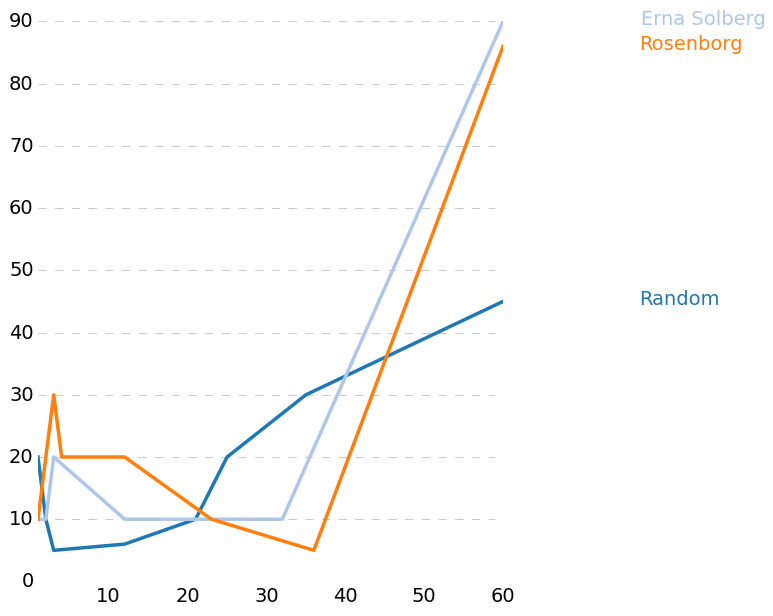
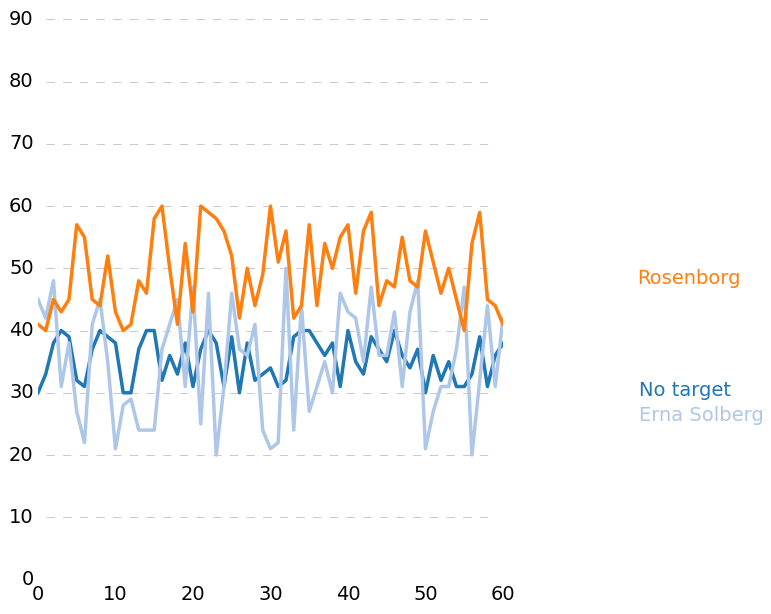
added more

diff --git a/plotting.py b/plotting.py
@@ -3,6 +3,7 @@ Handles plotting of different visualizations of data.
 @author: JohnArne
 '''
 import matplotlib.pyplot as plt
+import random
 
 def plot_temporal_sentiment(data):
     """
@@ -39,7 +40,7 @@ def plot_temporal_sentiment(data):
     # Limit the range of the plot to only where the data is.  
     # Avoid unnecessary whitespace.  
     plt.ylim(0, 90)  
-    plt.xlim(1, 60)  
+    plt.xlim(0, 60)  
       
     # Make sure your axis ticks are large enough to be easily read.  
     # You don't want your viewers squinting to read your plot.  
@@ -58,7 +59,7 @@ def plot_temporal_sentiment(data):
       
     # Now that the plot is prepared, it's time to actually plot the data!  
     # Note that I plotted the majors in order of the highest % in the final year.  
-    majors = ['Random', 'Erna Solberg', 'Rosenborg']  
+    majors = ['No target', 'Erna Solberg', 'Rosenborg']  
       
     for rank, column in enumerate(majors):  
         # Plot each line separately with its own color, using the Tableau 20  
@@ -129,7 +130,10 @@ def plot_dataset_stats(data):
 
     
 if __name__ == '__main__':
-    data = {"Erna Solberg": [[1,2,3,12,15,22,32,60],[10,10,20,10,10,10,10,90]],
-            "Rosenborg": [[1,2,3,4,12,23,36,60],[10,20,30,20,20,10,5,86]],
-            "Random": [[1,2,3,12,21,25,35,60],[20,10,5,6,10,20,30,45]]}
+    data = {"Erna Solberg": [range(0,100),[random.randint(20,50) for _ in range(0,100)]],
+            "Rosenborg": [range(0,100),[random.randint(40,60) for _ in range(0,100)]],
+            "No target": [range(0,100),[random.randint(30,40) for _ in range(0,100)]]}
+    for key in data.keys():
+        print len(data[key][0])
+        print len(data[key][1])
     plot_temporal_sentiment(data)

diff --git a/models/model.py b/models/model.py
@@ -3,6 +3,9 @@ Created on 15. mai 2014
 
 @author: JohnArne
 '''
+
+import logging
+
 class Model(object):
     """
     Class for abstracting the different classification models.
@@ -10,13 +13,24 @@ class Model(object):
     
     def __init__(self):
         self.stats = []
+        self.feature_set = []
         
-    def compute_Weights(self):
-        stuff = 0
-        
-    def create_stats(self):
-        stats = 0
+    def train_on_feature_set(self):
+        """
+        Performs training with the given model using the given feature set
+        """
+        pass
 
-    #return the sentiment given a sequence of words
-    def get_sentiment(self):
+    def classify(self, tweet, features):
+        """
+        Returns the sentiment given a document(tweet) along with its features.
+        """
         sentiment = 0
+        return sentiment        
+
+    
+    def set_feature_set(self,feature_set):
+        """
+        Stores the given feature set for classification
+        """
+        self.feature_set = feature_set

diff --git a/classifier.py b/classifier.py
@@ -10,6 +10,7 @@ import retriever_tweepy
 import models
 import annotation
 import easygui_gui
+import feature_extraction
 from retriever_tweepy import TweetRetriever
 
 class Classifier(object):
@@ -25,7 +26,11 @@ class Classifier(object):
         """
         Trains the given model on the dataset.
         """
-        self.model = None
+        dataset = "erna_dataset"
+        tweets = utils.get_pickles(dataset)
+        set = feature_extraction.get_feature_set_A(tweets)
+        self.model.set_feature_set(set)
+        self.model.train_on_feature_set()
        
     def test(self):
         """

diff --git a/models/nb.py b/models/nb.py
@@ -4,7 +4,8 @@ Created on 19. mars 2014
 @author: JohnArne
 '''
 from model import Model
-    
+from sklearn.naive_bayes import MultinomialNB 
+
 
 class NB(Model):
     """
@@ -12,11 +13,10 @@ class NB(Model):
     """
     
     def __init__(self):
-        self.text = []
-        self.word_freq = []
-    
-    def create_bagofwords(self):
-        self.bagofwords = []
+        self.classifier = MultinomialNB()
+        super(NB, self).__init__()
+
         
-    
-        
+if __name__ == '__main__':
+    nb = NB()
+    print "something"

diff --git a/utils.py b/utils.py
@@ -113,6 +113,14 @@ def store_pickles(tweets, filepath):
     output = open("tweet_pickles/"+filepath, 'wb')
     pickle.dump(tweets, output)
     
+def get_pickles(dataset):
+    """
+    Gets the stored tweet pickles.
+    """
+    tweets = []
+    return tweets
+    
+    
 sentiments = ["negative",
               "neutral",
               "positive"]

diff --git a/models/__init__.py b/models/__init__.py
@@ -3,3 +3,4 @@ Created on 28. sep. 2014
 
 @author: JohnArne
 '''
+
